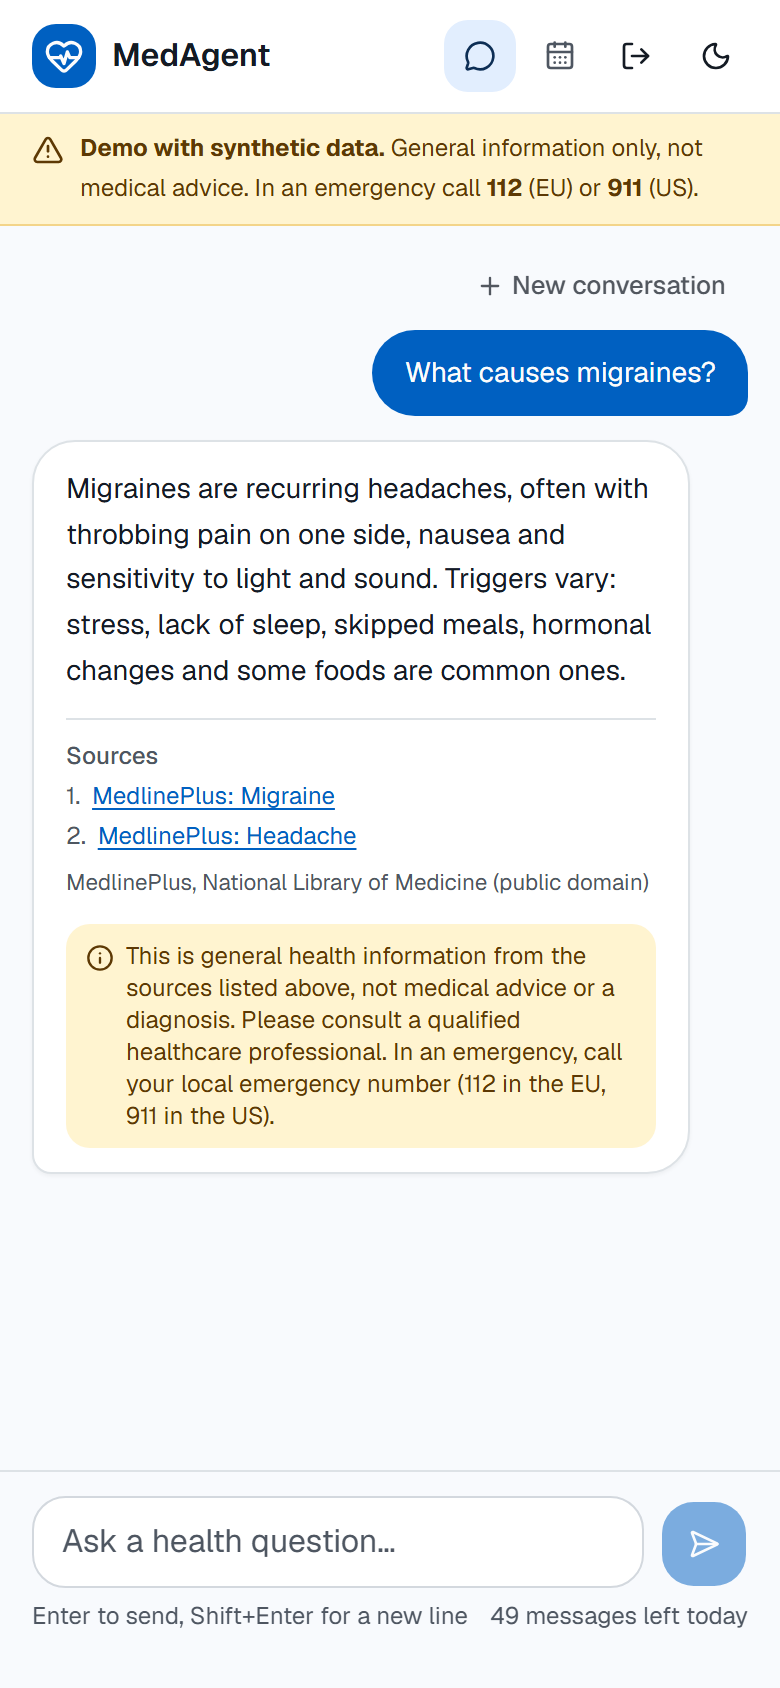
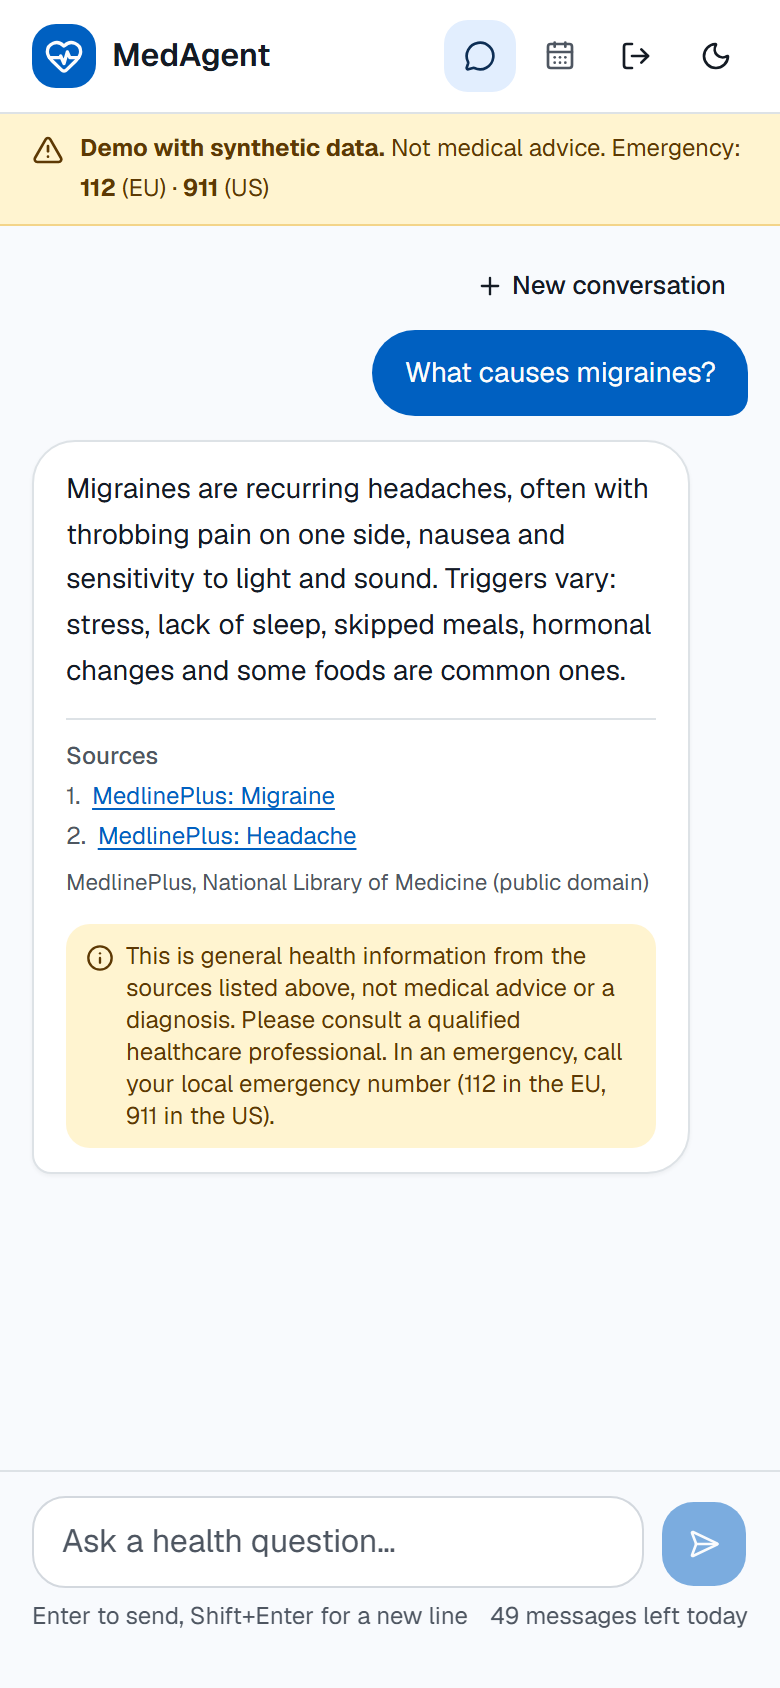
docs: round 1 design feedback in the changelog, ADR 0011 and the Phase 6 notes; new screenshots

Changed region(s): [[0.0923, 0.0616, 0.9231, 0.1232], [0.6462, 0.154, 0.9231, 0.1848]]

diff --git a/frontend/tests/e2e/screenshots.shots.ts b/frontend/tests/e2e/screenshots.shots.ts
@@ -10,8 +10,13 @@ const API = "http://localhost:8765";
 const OUT = path.resolve(__dirname, "../../../docs/screenshots");
 
 const VARIANTS = [
-  { name: "desktop-light", scheme: "light", viewport: { width: 1280, height: 860 }, mobile: false },
-  { name: "desktop-dark", scheme: "dark", viewport: { width: 1280, height: 860 }, mobile: false },
+  {
+    name: "desktop-light",
+    scheme: "light",
+    viewport: { width: 1280, height: 1100 },
+    mobile: false,
+  },
+  { name: "desktop-dark", scheme: "dark", viewport: { width: 1280, height: 1100 }, mobile: false },
   { name: "mobile-light", scheme: "light", viewport: { width: 390, height: 844 }, mobile: true },
   { name: "mobile-dark", scheme: "dark", viewport: { width: 390, height: 844 }, mobile: true },
 ] as const;
@@ -62,8 +67,8 @@ for (const variant of VARIANTS) {
 
       await newConversation(page);
       await ask(page, "I have a rash, who should I see?");
-      await expect(page.getByRole("log")).toContainText("Dr. Anna Schmidt, Dermatology");
-      await ask(page, "book number 1");
+      await expect(page.getByRole("log")).toContainText("Doctors you can book");
+      await page.getByRole("button", { name: "Book Dr. Anna Schmidt" }).click();
       await expect(page.getByRole("region", { name: "Confirm booking" })).toBeVisible();
       await shot("confirm");
 

diff --git a/docs/adr/0011-frontend.md b/docs/adr/0011-frontend.md
@@ -33,6 +33,25 @@ Red is used for nothing else. The only text parsing is cosmetic: splitting the `
 the disclaimer from an answer to lay them out (`lib/citations.ts`); the disclaimer itself is still
 added server-side in code.
 
+### 3b. Structured data for cards: `doctors` and `booking`
+The same event carries the doctor options of the turn that suggested them (`doctors`: id, name,
+specialty, city, languages, in the order the assistant numbers them) and, after a booking,
+`booking` (appointment id, doctor, time as shown in the clinic's timezone). The doctor list is
+conversation memory in the graph, so it is attached only to the turn that suggested it
+(`draft_kind == "doctors"`), which a test pins. A Book button sends "Book number N", the exact
+sentence a user would type, so the booking flow is unchanged and the confirmation step is still
+mandatory. Cards of older lists are disabled because "number N" refers to the newest list. The
+numbered text lines the cards replace are hidden in the bubble by exact match on the known names.
+
+### 3c. Safety actions are one tap away
+The emergency and crisis texts are fixed on the server; the UI only makes them actionable: every
+known number in them is a `tel:` link (a fixed list, not a regex over arbitrary digits), the
+emergency card has a "Call 112" button, the crisis card has TelefonSeelsorge and 112 buttons and
+a Giftnotruf section. Poison centres have no single number in Germany; the UI lists five centres
+whose numbers were checked against published lists (Berlin, München, Bonn, Göttingen, Mainz) and
+links the official directory of the Federal Institute for Risk Assessment (BfR) for every other
+region, plus 112 for emergencies. The numbers live in `safety-cards.tsx` with that provenance.
+
 ### 4. Token storage: memory plus `sessionStorage`, not an httpOnly cookie
 A cookie is the safer place against XSS, but it would need cookie auth on the API, CSRF
 protection, `SameSite` handling and credentialed CORS, and the Vercel frontend and the AWS API

diff --git a/docs/learning/phase6.md b/docs/learning/phase6.md
@@ -52,6 +52,19 @@ timezone block is needed, and a stable `UID` so importing twice updates the even
 with Dr. X" and the time. No patient data and no attendee: the clinic's shared calendar can't invite
 people (a service account can't), so this is the patient-side counterpart.
 
+### How do the doctor cards work without parsing text?
+The `message` event carries the options as data (`doctors`), in the same order the assistant numbers
+them. The Book button sends "Book number N", exactly what a user would type, so the booking flow,
+including the mandatory confirmation, is unchanged. The options are attached only to the turn that
+suggested them (the graph remembers them, but a later turn must not re-send them), and older cards
+are disabled because "number N" always means the newest list.
+
+### What did you do for the safety cards?
+Made them actionable without changing what the server says: `tel:` links on every known number, a
+"Call 112" button on the emergency card, and TelefonSeelsorge, 112 and a Giftnotruf section on the
+crisis card. Germany has no single poison-control number, so I list only the regional numbers I could
+verify and link the official BfR directory for the rest, rather than guess.
+
 ### How do you test a streaming UI for free?
 A tiny Node server speaks the real contract (CORS, SSE with delays, error envelopes, per-user
 state). Playwright drives the real frontend against it: register, ask, see the live step line, book,

diff --git a/CHANGELOG.md b/CHANGELOG.md
@@ -16,6 +16,14 @@ Format: [Keep a Changelog](https://keepachangelog.com/en/1.1.0/), versions follo
 - Tests: Vitest (SSE parser, event decoding, citations, `.ics`) and a Playwright smoke test against a
   mock API; a `frontend` CI job; an npm entry in `dependabot.yml`; `npm run screenshots` and
   `docs/screenshots/`.
+- Doctor suggestions as cards (name, specialty, city, languages) with a Book button that sends
+  "Book number N"; only the newest list is bookable. The `message` event and `ChatResponse` carry
+  `doctors` and `booking` (appointment id, doctor, time) as data, additive, with tests.
+- Safety cards: every known phone number is a `tel:` link; "Call 112" button on the emergency card;
+  TelefonSeelsorge, 112 and a Giftnotruf (poison control) section with regional numbers and the
+  official BfR list on the crisis card.
+- The booked card is structured like the confirmation card (doctor, time, confirmation number) with
+  "Add to calendar" below; a shorter one-line disclaimer strip; a fourth example prompt.
 - ADR 0011, `docs/learning/phase6.md`.
 
 ## [0.5.2] - 2026-10-31
